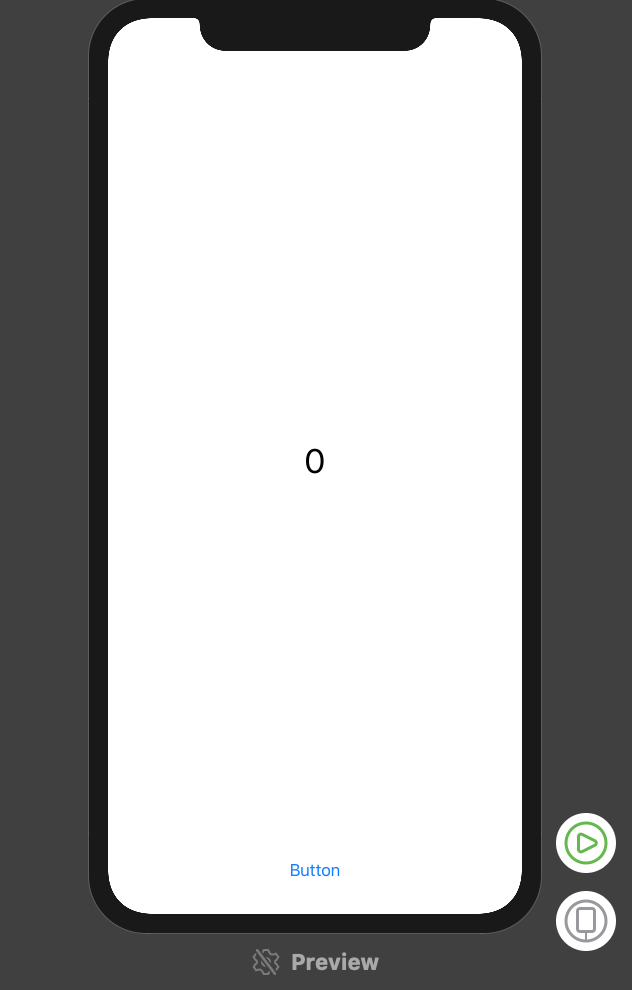
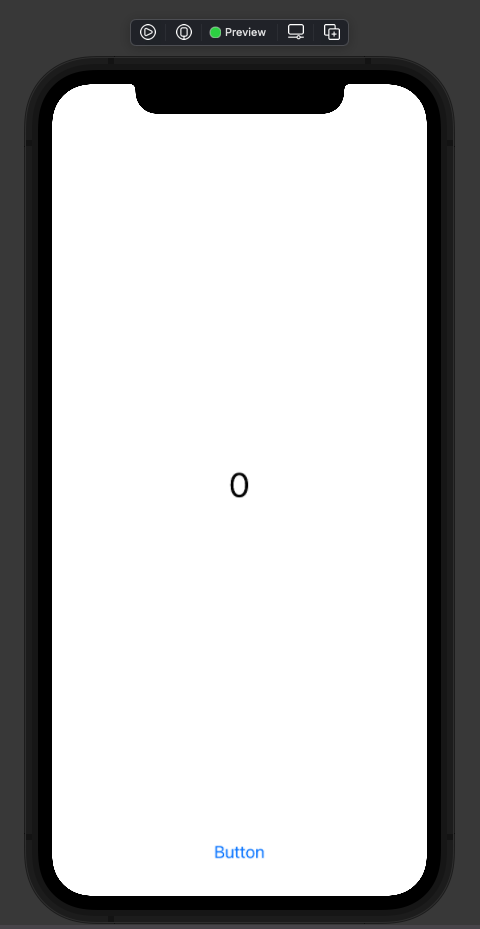
Update final steps, images and gifs

diff --git a/src/docs/cookie-clicker-swiftui.md b/src/docs/cookie-clicker-swiftui.md
@@ -54,7 +54,7 @@ If this is your first time running Xcode, then this may take a few minutes. This
 
 ![step4](assets/cookie_clicker_swiftui/step4.gif)
   
-If you click on the `Resume` button in the top right, and you are running on Mac OS X Big Sur or Cataline you will see a preview of the **Hello World** application that the template has provided for you.
+If you click on the `Resume` button in the top right, and you are running on Mac OS X Big Sur or Catalina you will see a preview of the **Hello World** application that the template has provided for you.
   
 ### 6. Edit the Canvas and add a Button
 
@@ -67,7 +67,7 @@ When using SwiftUI the Canvas provides a live view of your code. Editing the Can
 
 ### ![step5](assets/cookie_clicker_swiftui/step5.gif)
 
-If you look at the Editor, you can see that this has created a `VStack` with both the label and the button. A `VStack` is a built in view that arranges the contained views vertically.
+If you look at the editor, you can see that this has created a `VStack` with both the label and the button. A `VStack` is a built in view that arranges the contained views vertically.
 
 ### 7. Run the app on the Simulator or the canvas.
 
@@ -106,8 +106,10 @@ Change the string that is displayed in the `Text` view depending on this state:
 ```swift
     if showGreeting {
         Text("Hello World")
+            .padding()
     } else {
         Text("")
+            .padding()
     }
 ```
 
@@ -135,8 +137,10 @@ struct ContentView: View {
         VStack {
             if showGreeting {
                 Text("Hello World")
+                    .padding()
             } else {
                 Text("")
+                    .padding()
             }
             Button(action: {self.showGreeting.toggle()}) {
                 Text("Button")
@@ -166,7 +170,7 @@ As you tap the button, the greeting appears and disappears!
 /giphy Celebrate
 
 
-This is not trivial. You have learned an important part of developing using SwiftUI. You create state, you write your view to respond to the state, and you have actions that change the state. The framework takes care of redrawing the view when the state changes.
+This is not trivial example. You have learned an important part of developing using SwiftUI. You create state, you write your view to respond to the state, and you have actions that change the state. The framework takes care of redrawing the view when the state changes.
 
 If you have done any iOS development before, or even the other CodeBar tutorial, you can see how little code is needed. There are no `ViewController`s. There are no `Storyboards`. You write code and see the results immediately.
 
@@ -208,6 +212,8 @@ struct ContentView: View {
     var body: some View {
         VStack {
             Text("\(count)")
+                .padding()
+                
             Button(action: { self.count += 1 }) {
                 Text("Button")
             }
@@ -222,7 +228,7 @@ struct ContentView_Previews: PreviewProvider {
 }
 ```
 
-### 13. Run the app in the Simulator on the Canvas live preview to see the counter working
+### 13. Run the app in the Canvas live preview or the simulator to see this working
 
 ![step6](assets/cookie_clicker_swiftui/step6.gif)
 
@@ -285,6 +291,23 @@ And the Canvas shows the result:
 
 Congratulations! You've just created your first SwiftUI iOS app. You've learned how to move around Xcode and edit your code. You've added UI elements from the library and configured them. You've seen how to use previews, live previews, and the simulator. You've seen how SwiftUI is declarative. This is a good start!
 
+------
+
+## Extension Tasks
+
+If you've finished all of the above why not think about some of the following ideas:
+
+* Disable the button when the counter reaches, say, 10. so the number can't get larger.
+
+* make a new button that decreases the count. Can you turn it into a two player game?
+
+* make the background change after a set amount of clicks? How about creating an array of colours to change every set interval e.g. after 5 taps.
+
+* change your button into a picture button, you could make a cookie clicker? Make the picture change after a set amount of clicks.
+
+
+-----
+
 ## Bonus : Run your app on your Apple device
 
 Running your app in the simulator is cool, but you know what's even cooler? Running your app in your Apple devices! Couple years back, you need to have a developer account to run your app in a physical device, but luckily know Apple allows us to run our app using your everyday Apple account.
@@ -329,16 +352,3 @@ Running your app in the simulator is cool, but you know what's even cooler? Runn
 
 It's great to see that Apple makes it easy for us to try our app in our actual hands. Happy testing!
 
-------
-
-## Extension Tasks
-
-If you've finished all of the above why not think about some of the following ideas:
-
-* Disable the button when the counter reaches, say, 10. so the number can't get larger.
-
-* make a new button that decreases the count. Can you turn it into a two player game?
-
-* make the background change after a set amount of clicks? How about creating an array of colours to change every set interval e.g. after 5 taps.
-
-* change your button into a picture button, you could make a cookie clicker? Make the picture change after a set amount of clicks.
